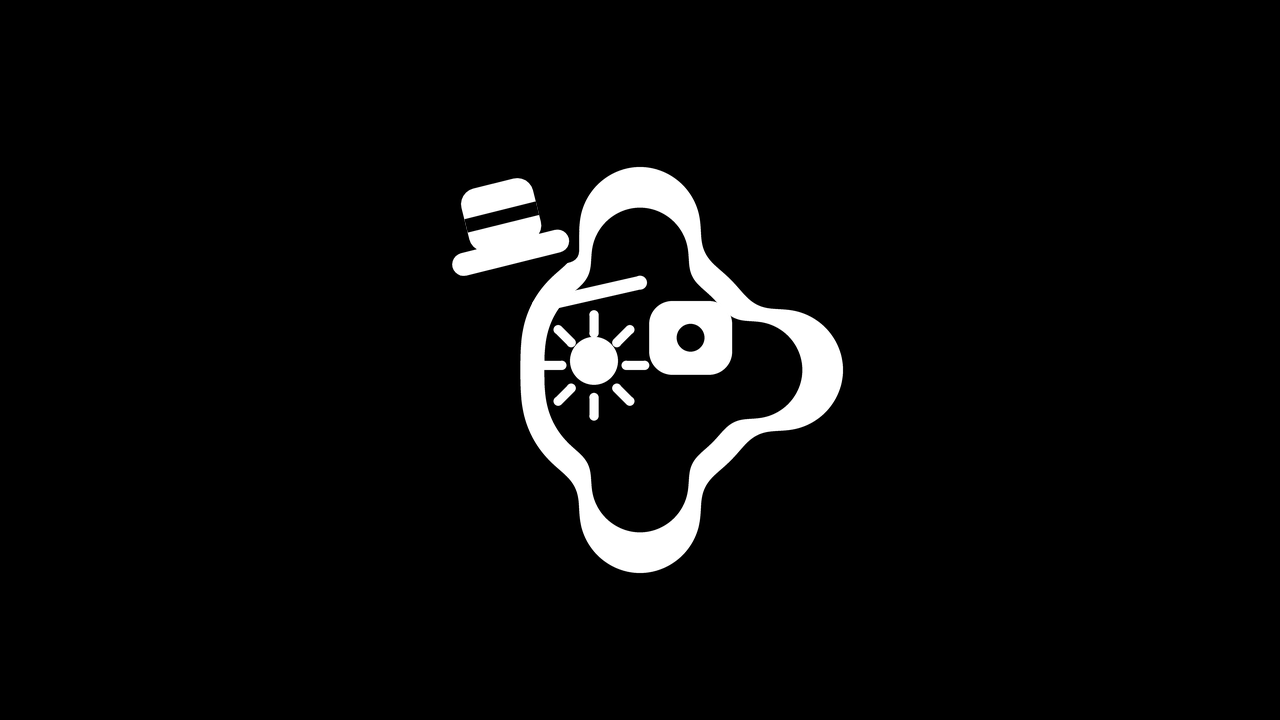
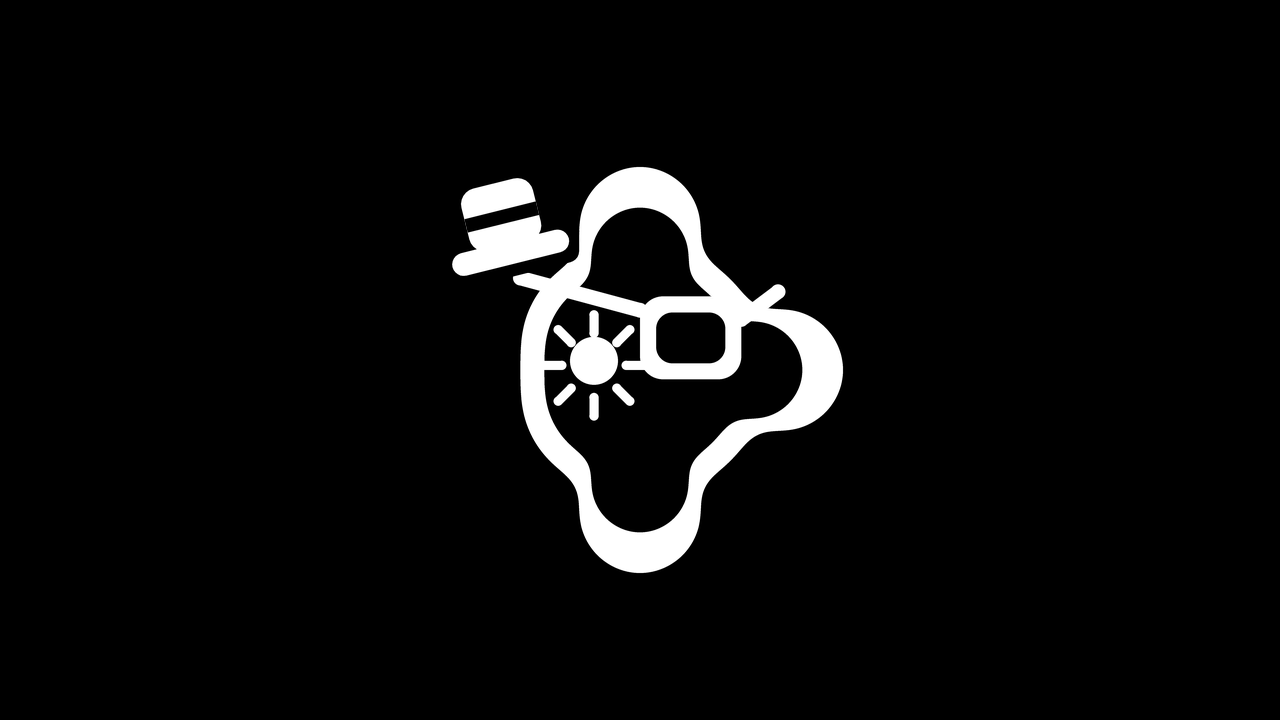
Visual improvements added

Changed region(s): [[0.4375, 0.3667, 0.5938, 0.55], [0.5938, 0.3972, 0.625, 0.4278], [0.4062, 0.3667, 0.4375, 0.3972]]

diff --git a/Tools/art_blob.py b/Tools/art_blob.py
@@ -166,14 +166,19 @@ def piece_img(bits, px, face='idle', hat=False, fill=W, inverted=False, outline=
 
 
 def yamali_img(px, face=True):
+    """Yamali: ters renkli parca ('1011'), sag gozunde korsan bandi (B varyanti: siyah kare bant, kalin beyaz kenar,
+    kafayi capraz dolasan ip)."""
     def extra(px, oy):
         k = px / 100
-        w = Ink(px, px); w.rrect(52 * k, (35 + oy / k) * k, 70 * k, (51 + oy / k) * k, 5 * k)    # goz bandi
-        w.line([(28 * k, oy + 36 * k), (50 * k, oy + 31 * k)], 3 * k)                         # bandin ipi
-        w.line([(70 * k, oy + 36 * k), (74 * k, oy + 33 * k)], 3 * k)
-        if face: w.circle(40 * k, oy + 49 * k, 5.2 * k)                                      # acik goz
-        p = Ink(px, px); p.circle(61 * k, oy + 43 * k, 3 * k)                                # band uzerindeki nokta
-        return [(w, W), (p, K)]
+        layers = []
+        if face:
+            eye = Ink(px, px); eye.circle(40 * k, oy + 49 * k, 5.2 * k); layers.append((eye, W))        # acik goz
+        rim = Ink(px, px)
+        rim.rrect(50 * k, oy + 34 * k, 72 * k, oy + 52 * k, 5 * k)                                      # bandin beyaz kenari
+        rim.line([(24 * k, oy + 30 * k), (50 * k, oy + 37 * k)], 3.2 * k)                               # ip (sol)
+        rim.line([(72 * k, oy + 39 * k), (80 * k, oy + 33 * k)], 3.2 * k)                               # ip (sag)
+        pad = Ink(px, px); pad.rrect(53.5 * k, oy + 37.5 * k, 68.5 * k, oy + 48.5 * k, 3.5 * k)        # siyah bant
+        return layers + [(rim, W), (pad, K)]
     return piece_img('1011', px, face=None, inverted=True, extra=extra)
 
 
@@ -429,8 +434,8 @@ def make_story():
     save(scene([(sleeping, 160, 60), (piece_img('1001', 70 * Z, face='sad', fill=G), 40, 280), (piece_img('0110', 60 * Z, face='sad', fill=G), 100, 292)], grid=True), 'Story', 'ending_alone.png')
     def dark_extra(px, oy):
         k = px / 100
-        w = Ink(px, px); w.rrect(52 * k, 35 * k, 70 * k, 51 * k, 5 * k); w.line([(28 * k, 36 * k), (50 * k, 31 * k)], 3 * k)
-        pp = Ink(px, px); pp.circle(61 * k, 43 * k, 3 * k)
+        w = Ink(px, px); w.rrect(50 * k, 34 * k, 72 * k, 52 * k, 5 * k); w.line([(24 * k, 30 * k), (50 * k, 37 * k)], 3.2 * k); w.line([(72 * k, 39 * k), (80 * k, 33 * k)], 3.2 * k)
+        pp = Ink(px, px); pp.rrect(53.5 * k, 37.5 * k, 68.5 * k, 48.5 * k, 3.5 * k)   # olusan goz bandi (B)
         sp2 = Ink(px, px)
         for a in range(0, 360, 45):
             sp2.line([(40 * k + 7 * k * math.cos(math.radians(a)), 49 * k + 7 * k * math.sin(math.radians(a))), (40 * k + 11 * k * math.cos(math.radians(a)), 49 * k + 11 * k * math.sin(math.radians(a)))], 2 * k)
